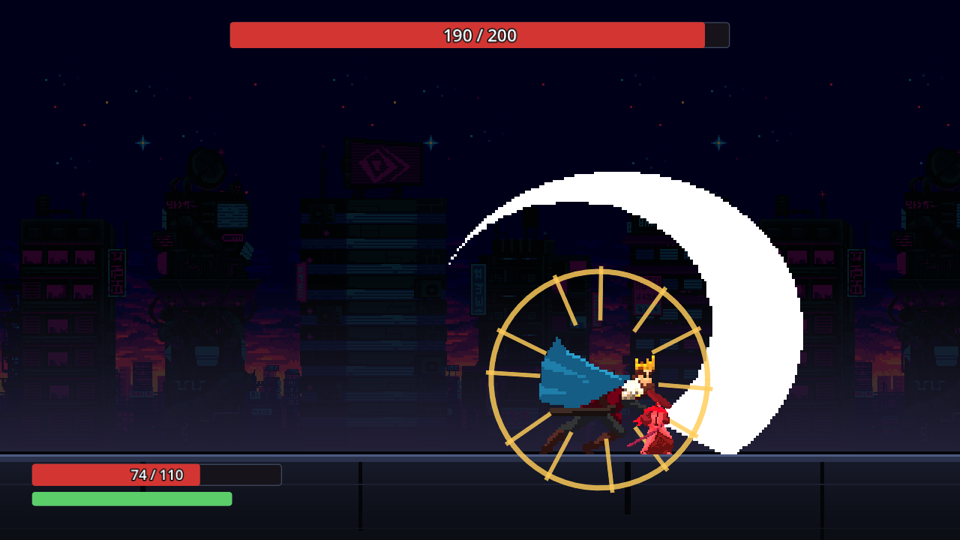
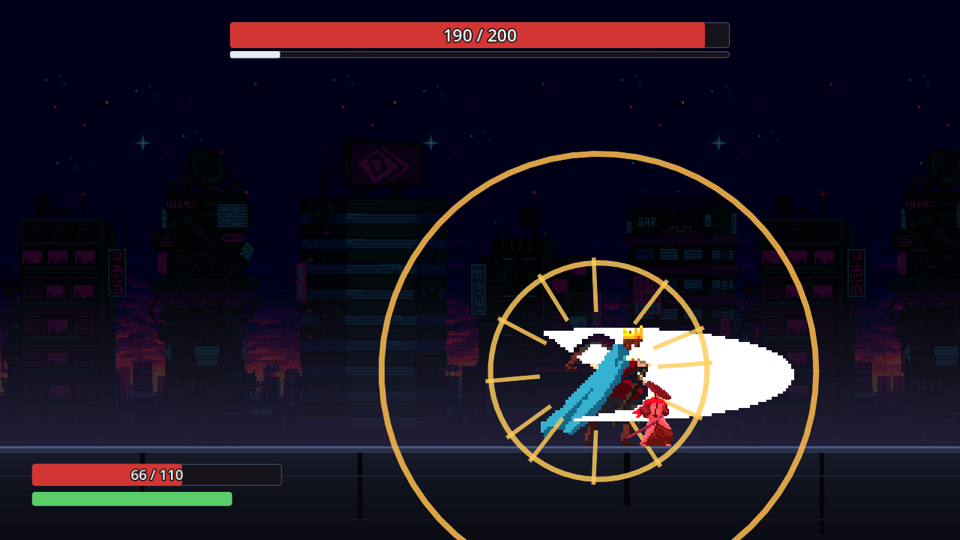
README 와 스크린샷을 경직 게이지 · 흰 플래시 · 보스와 파이터의 탈진에 맞춘다 (#71)
README 가 이 PR 이 바꾼 것을 전부 말한다: 맞은 보스는 공격을 안 멈추고 희게 번쩍인다, 경직 게이지(1타 10 · 2타 45 · 연달아 두 번이면 무너진다 · 1.2초 뒤 서서히 준다 · 공중에서 무너지면 그 자리에 내린다), 받아쳐도 게이지로도 같은 탈진, 무너지는 순간의 멈춤 동안 누른 키가 나간다, 스태미나의 마지막 한 번과 파이터 탈진(1.1초 · 붕괴도 탈진). 스크린샷을 세션 시드 51 로 다시 찍었고 셋을 더했다 — battle-12-poise · battle-12b-poise-break · battle-10f-fighter-exhausted. battle-5b-boss-hit 은 이제 칼을 든 채 희게 번쩍인 보스다.

diff --git a/README.md b/README.md
@@ -43,13 +43,24 @@
 못 한다. 칼은 그림에 그려진 흰 궤적 그대로 닿는다.
 
 **가드와 패리는 다른 행동이다.** `↓` 를 누르고 있는 동안이 가드다 — 못 움직이고, 피해의 1/4 만 받고 값은
-스태미나로 낸다(무거운 한 방이 가드를 깬다). `K` 는 패리다 — 누르면 0.33초 동안 칼을 세우고, 그 앞 **0.133초**
-안에 온 판정을 받아친다(피해 0). 창을 놓치면 **그냥 맞는다.** 받아쳤으면 남은 커밋을 기다리지 않는다 —
-`J` 가 곧장 반격의 1타로 나간다.
+스태미나로 낸다(무거운 한 방이 가드를 깬다 — 깨지면 전액을 맞고 탈진한다). `K` 는 패리다 — 누르면 0.33초 동안 칼을
+세우고, 그 앞 **0.133초** 안에 온 판정을 받아친다(피해 0). 창을 놓치면 **그냥 맞는다.** 받아쳤으면 남은 커밋을
+기다리지 않는다 — `J` 가 곧장 반격의 1타로 나간다.
+
+**스태미나를 다 쓰면 탈진한다.** 칼질 · 대시 · 패리는 스태미나를 쓴다. 조금이라도 남아 있으면 값보다 모자라도
+**마지막 한 번**은 나가고(0 까지 쓴다), 그 행동이 끝나는 순간 **1.1초** 탈진한다 — 맞은 자세로 굳어 움직이지도
+막지도 못한다. 가드로 막다가 스태미나가 바닥나도, 가드가 깨져도 같은 탈진이다. 1.1초는 3연격의 2타에서 3타까지다 —
+2타에 무너진 사람은 3타를 그대로 맞는다.
 
 **어느 타든 받아치면 보스가 무너진다.** 하던 연격이 그 자리에서 끊기고(남은 타격은 안 온다) 보스가 **1.5초**
 탈진한다 — 맞은 자세로 굳은 채 푸르게 선다. 곧장 누른 2연격이 닿기까지(약 1.1초)가 그 안에 들어간다.
-"버티다가 → 받아치고 → 제일 센 걸 꽂는다" 가 한 동작으로 이어지는 것이 이 게임의 고리다.
+"버티다가 → 받아치고 → 제일 센 걸 꽂는다" 가 한 동작으로 이어지는 것이 이 게임의 고리다. 무너지는 순간 화면이
+잠깐 멈추는데, 그동안 누른 키는 버려지지 않고 멈춤이 풀리자마자 나간다.
+
+**때려서도 무너뜨린다.** 보스는 맞아도 하던 공격을 멈추지 않는다 — 희게 번쩍일 뿐이다. 대신 칼이 닿을 때마다
+보스 체력바 밑의 **경직 게이지**가 찬다(1타 10 · 2타 45 · 끝 100). 2연격 한 번으로는 안 차고, 연달아 두 번이면
+두 번째 2타에 받아쳤을 때와 똑같이 무너진다. 마지막으로 맞은 뒤 1.2초가 지나면 서서히 준다. 공중에서 무너지면
+착지하며 치던 칼은 안 오고 그 자리에 내린다 — 받아칠 수 없는 점프 공격을 멈추는 길은 게이지뿐이다.
 
 ---
 
@@ -63,16 +74,20 @@
 |---|---|
 | 보스의 선딜 — 그 패턴의 예고 자세에 멈춰 서고, 링이 조여 든다 | 점프 공격 — 당신 쪽으로 뛰어 착지에 바닥 전체를 친다 |
 | <img src="docs/shots/battle-10d-parry.png" width="420"> | <img src="docs/shots/battle-10e-boss-exhausted.png" width="420"> |
-| 받아친 순간 | 받아쳐 무너진 보스 — 1.5초 동안 푸르게 선다 |
-| <img src="docs/shots/battle-10b-guard-break.png" width="420"> | <img src="docs/shots/battle-11-stage-2.png" width="420"> |
-| 붙든 가드 — 스태미나가 바닥나 깨진 순간 | 2단계의 결과 화면 — 1단계를 이기면 2단계가 선다 |
+| 받아친 순간 | 받아쳐 무너진 보스 — 1.5초 동안 푸르게 서고, 체력바 밑 게이지 자리가 남은 탈진을 파랗게 그린다 |
+| <img src="docs/shots/battle-12-poise.png" width="420"> | <img src="docs/shots/battle-12b-poise-break.png" width="420"> |
+| 경직 게이지 — 2연격 한 번에 반쯤 찬다 | 패리 없이 게이지로 무너진 보스 — 받아쳤을 때와 같은 탈진이다 |
+| <img src="docs/shots/battle-10b-guard-break.png" width="420"> | <img src="docs/shots/battle-10f-fighter-exhausted.png" width="420"> |
+| 붙든 가드 — 스태미나가 바닥나 깨진 순간 | 스태미나를 다 써 탈진한 파이터 — 굳은 채 스태미나 바가 파랗다 |
+| <img src="docs/shots/battle-11-stage-2.png" width="420"> | |
+| 2단계의 결과 화면 — 1단계를 이기면 2단계가 선다 | |
 
 | | |
 |---|---|
 | <img src="docs/shots/title.png" width="420"> | <img src="docs/shots/battle-1-approach.png" width="420"> |
-| 타이틀 | 위가 보스 체력, 아래가 내 체력과 스태미나 |
+| 타이틀 | 위가 보스 체력과 경직 게이지, 아래가 내 체력과 스태미나 |
 | <img src="docs/shots/battle-5-attack.png" width="420"> | <img src="docs/shots/battle-5b-boss-hit.png" width="420"> |
-| 공격 | 피격 |
+| 공격 | 칼을 든 채 맞은 보스 — 공격 자세 그대로 희게 번쩍인다 |
 | <img src="docs/shots/battle-5c-combo-windup.png" width="420"> | <img src="docs/shots/battle-5d-combo-blade.png" width="420"> |
 | 2타 — 반속으로 칼을 크게 세운다 | 2타의 칼 — 1타의 세 배 |
 
